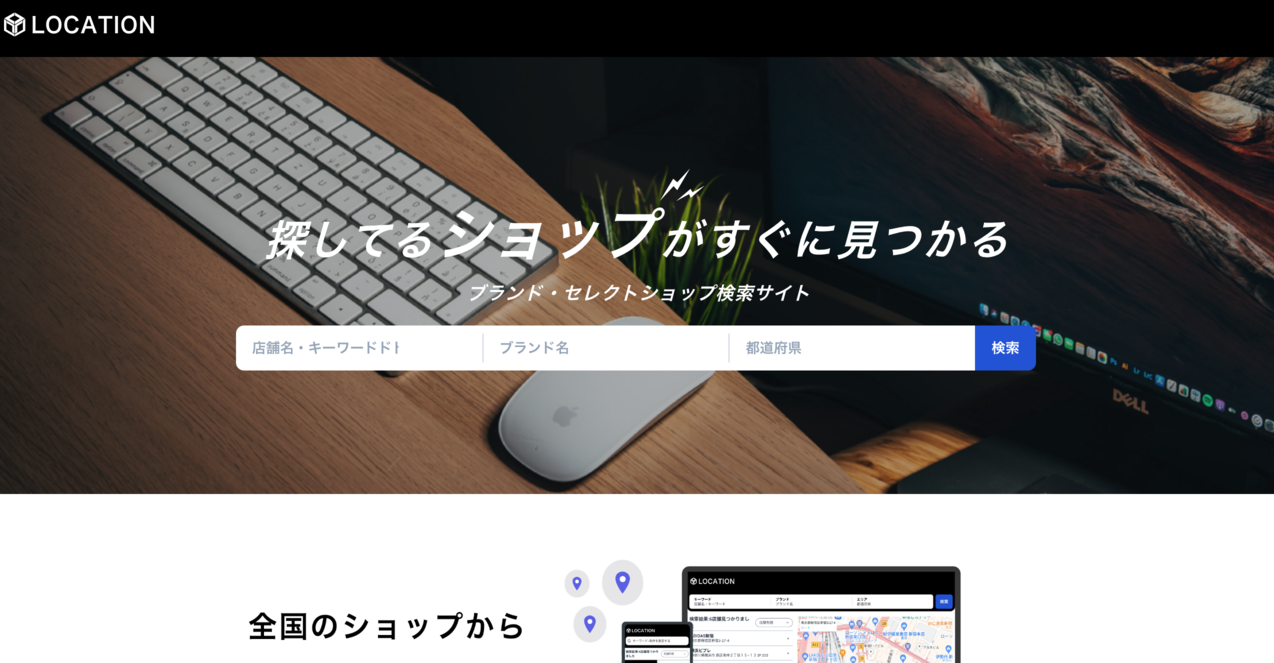
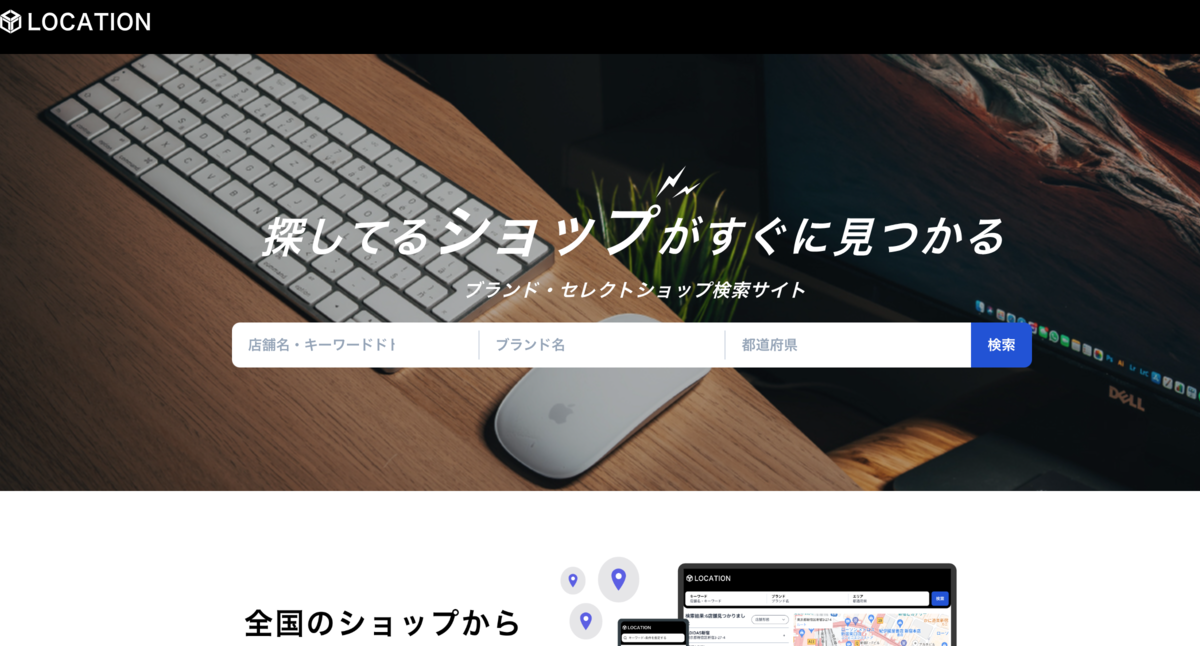
画像SIZE修正

diff --git a/index.html b/index.html
@@ -356,7 +356,7 @@
                     <div class="work_content1">
                         <div class="content1">
                             <a href="https://sm-portfolio.net/">
-                                    <img src="/images/work_list1c.png" alt="Portfolioサイト">
+                                    <img src="/images/work_list1.png" alt="Portfolioサイト">
 
                             </a>
                         </div>
@@ -417,7 +417,7 @@
                     <div class="work_content2">
                         <div class="content2">
                             <a href="https://location-shops.com/">
-<img src="/images/work_list3c.png" alt="Locationサイト">                            </a>
+<img src="/images/work_list3.png" alt="Locationサイト">                            </a>
                         </div>
 
                         <h3>Location</h3>
